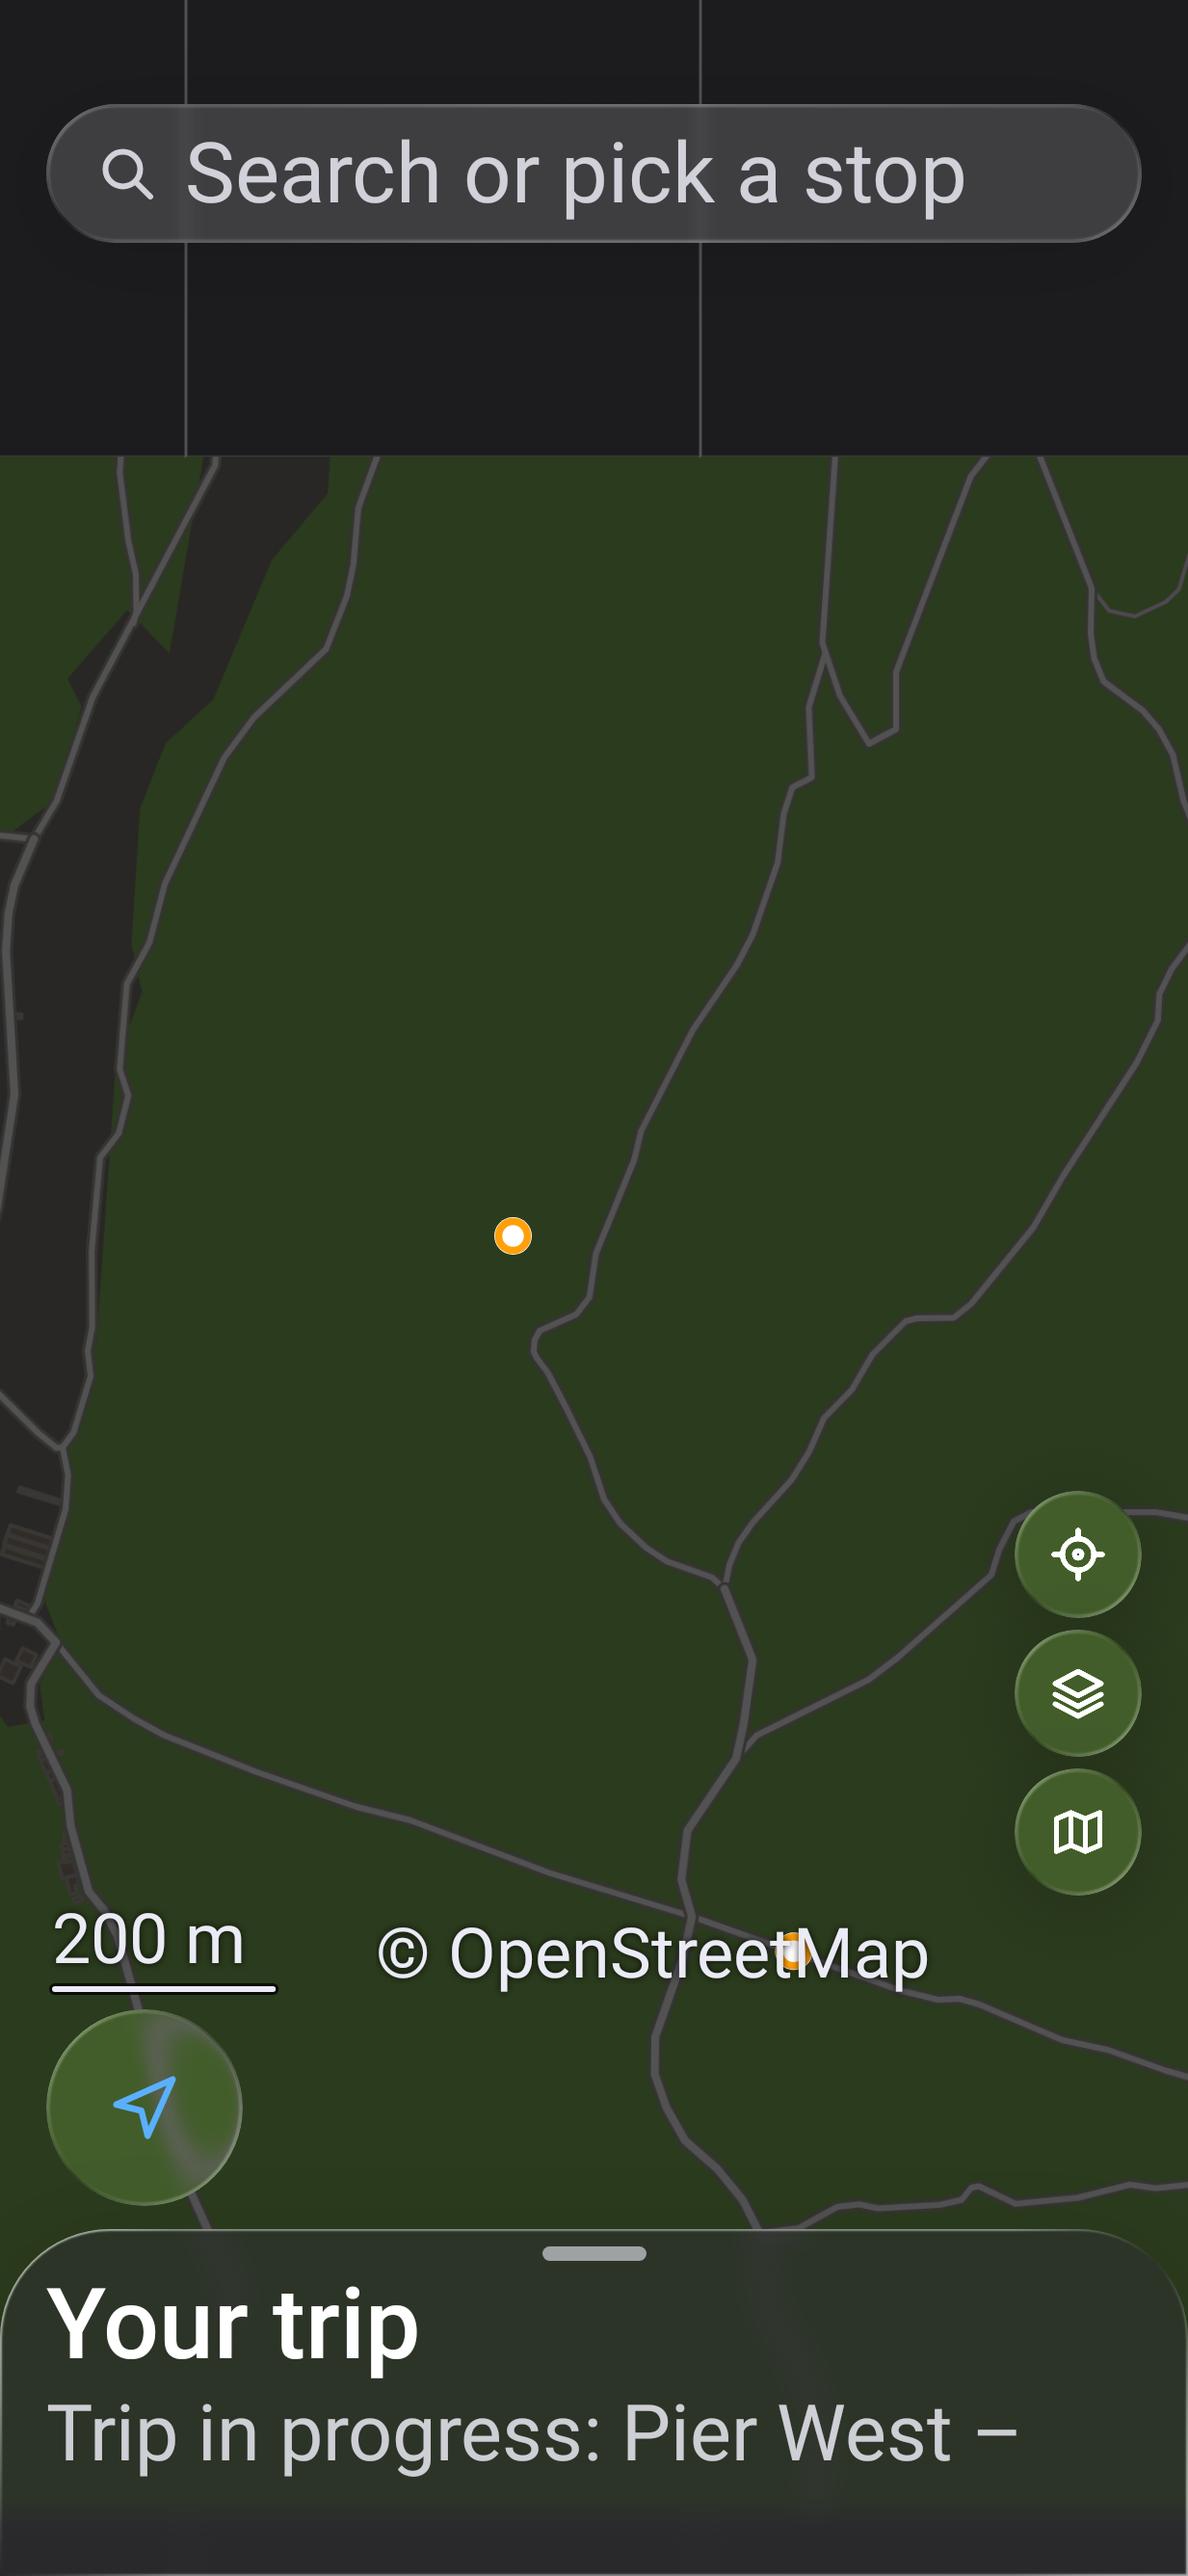
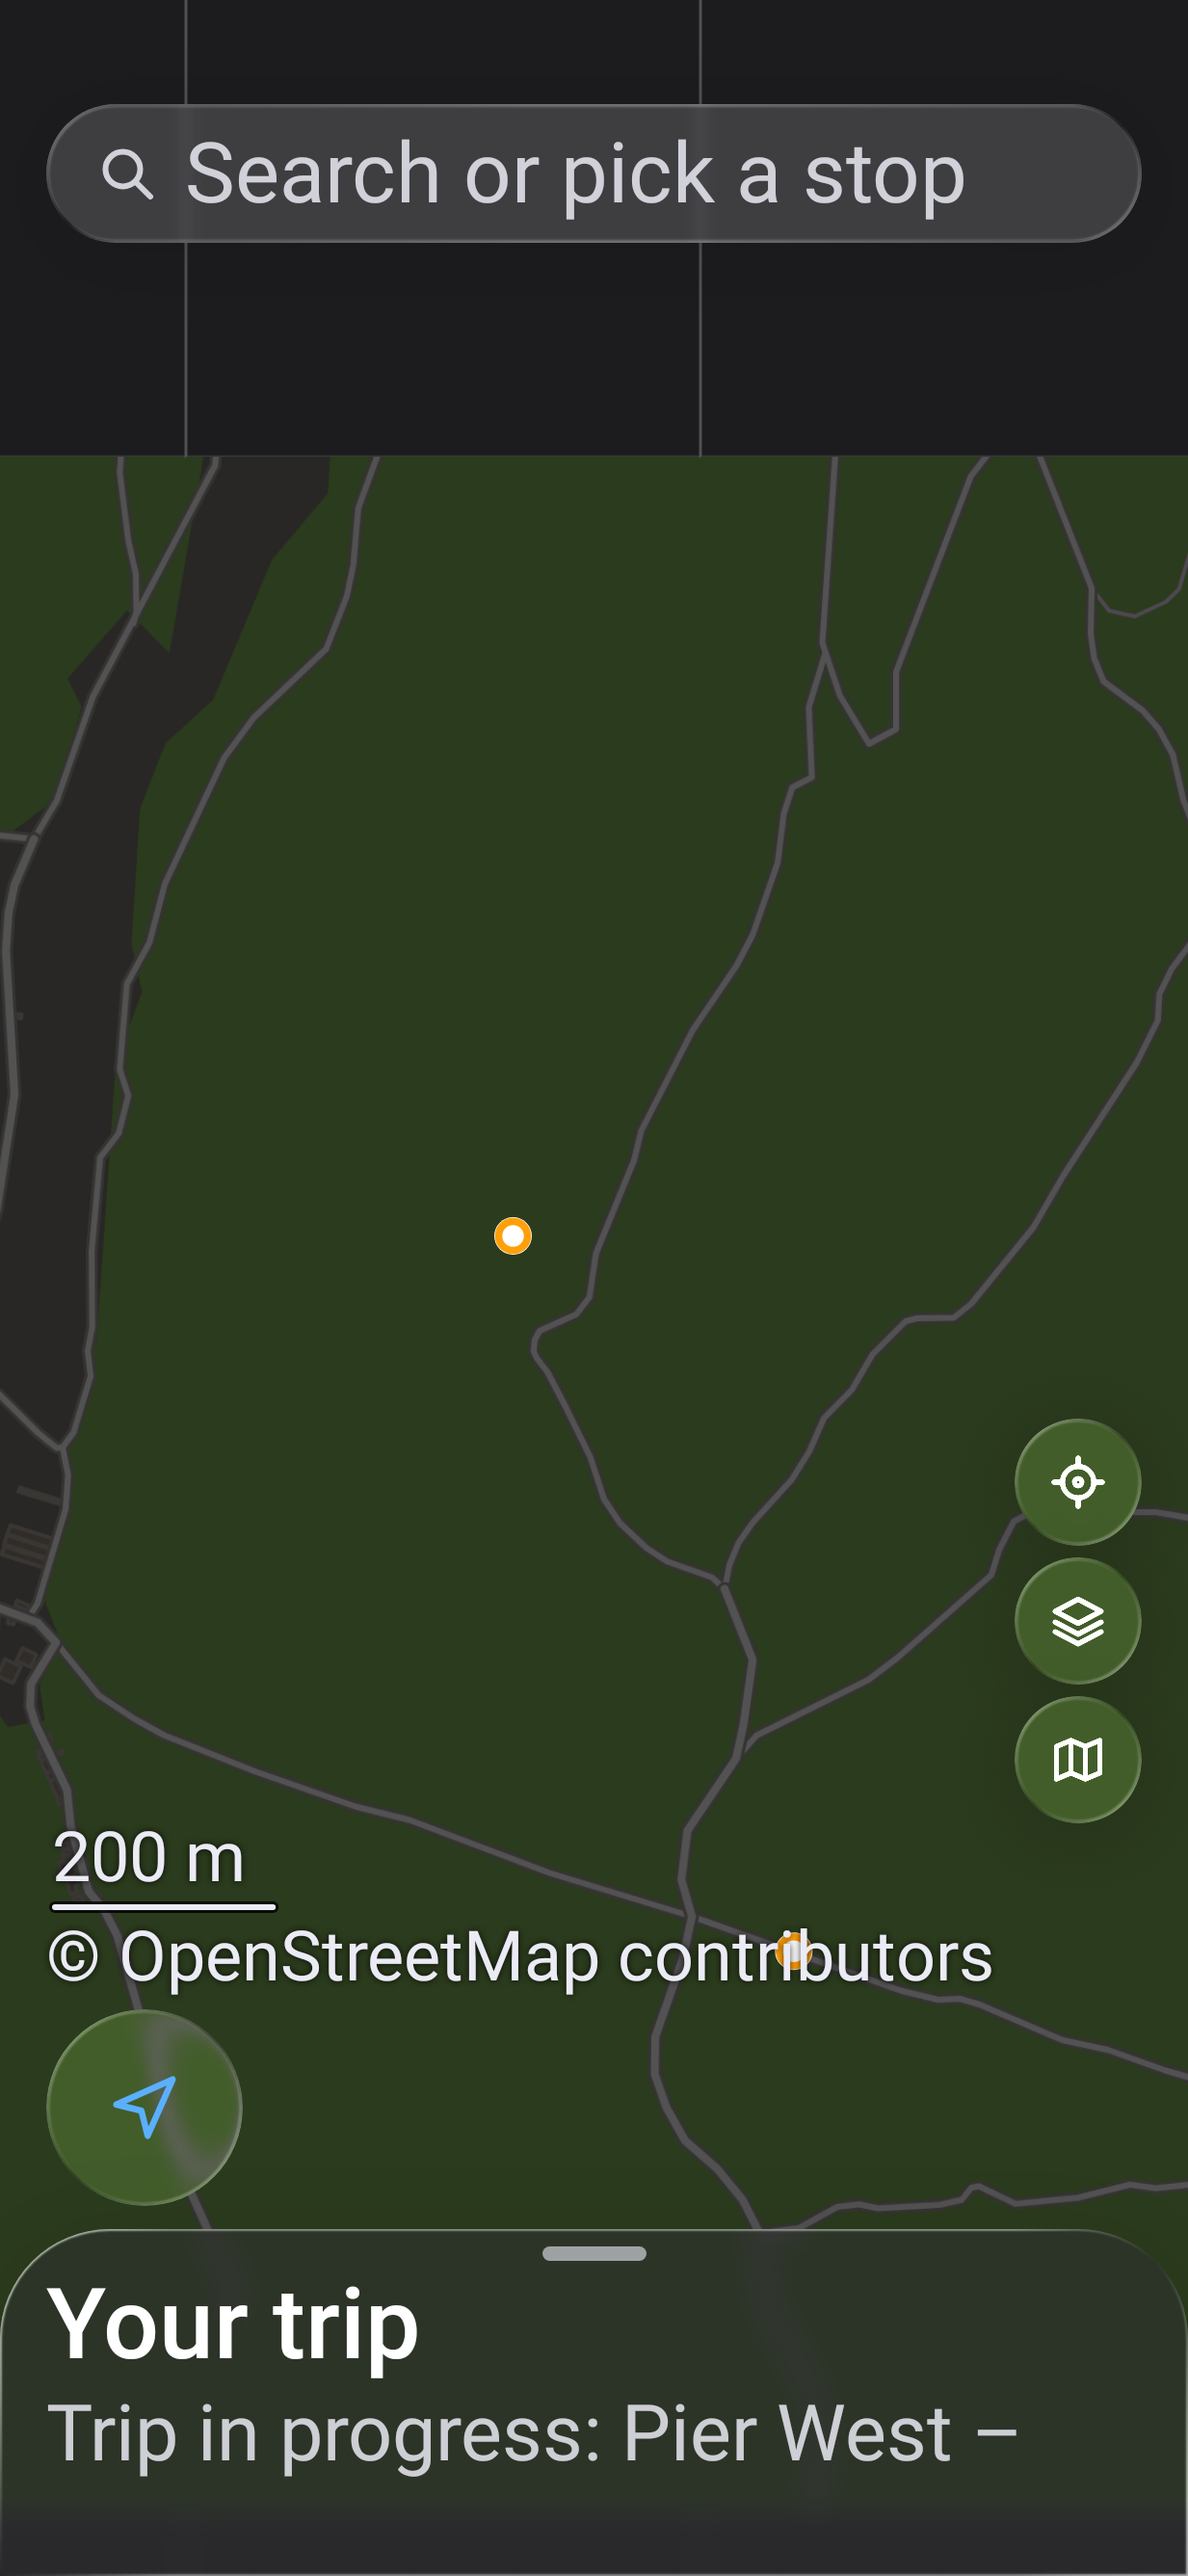
Stops: large-text layout sweep (E7.14)
At font scale 2 the pick field took two words of its hint: from 1.5 the
field takes the whole width and Paste goes under it. The map footer is a
flow row, so the attribution goes under the scale bar instead of off the
edge. The measure card's buttons keep their widths and wrap with large
text (Undo last was cut); trip rows give the pair and its line more lines.
New fs2 shots: measure card, My location, History, import summary.

Claude-Session: https://claude.ai/code/session_011osUp9MCesspyDRaLRPJDZ

Changed region(s): [[0.0308, 0.7142, 0.8321, 0.7763], [0.8321, 0.5279, 0.9862, 0.7452]]

diff --git a/android/stops/src/main/kotlin/dev/rosty/stops/tools/ToolViews.kt b/android/stops/src/main/kotlin/dev/rosty/stops/tools/ToolViews.kt
@@ -2,6 +2,7 @@ package dev.rosty.stops.tools
 
 import androidx.compose.foundation.layout.Arrangement
 import androidx.compose.foundation.layout.Column
+import androidx.compose.foundation.layout.FlowRow
 import androidx.compose.foundation.layout.Row
 import androidx.compose.foundation.layout.fillMaxWidth
 import androidx.compose.foundation.layout.padding
@@ -14,6 +15,7 @@ import androidx.compose.ui.Modifier
 import androidx.compose.ui.geometry.Rect
 import androidx.compose.ui.layout.boundsInWindow
 import androidx.compose.ui.layout.onGloballyPositioned
+import androidx.compose.ui.platform.LocalDensity
 import androidx.compose.ui.platform.testTag
 import androidx.compose.ui.res.pluralStringResource
 import androidx.compose.ui.res.stringResource
@@ -104,36 +106,47 @@ fun MeasureCard(
                 Modifier.testTag(ToolTags.MeasureDone),
             )
         }
-        Row(horizontalArrangement = Arrangement.spacedBy(Spacing.s)) {
+        // Equal thirds; with large text each keeps its own width and the row wraps instead of cutting labels.
+        val large = LocalDensity.current.fontScale >= LARGE_FONT_SCALE
+        val more = {
+            result?.let {
+                overlays.present(
+                    ButtonMenuEntry(moreAnchor[0], tools.moreItems(summary, it).toImmutableList()),
+                )
+            }
+        }
+        val buttons: @Composable (Modifier) -> Unit = { share ->
             CapsuleButton(
                 stringResource(R.string.measure_undo_last),
                 tools.measure::undo,
-                Modifier.weight(1f).testTag(ToolTags.MeasureUndo),
+                share.testTag(ToolTags.MeasureUndo),
                 enabled = state.points.isNotEmpty(),
-                fillWidth = true,
+                fillWidth = !large,
             )
             CapsuleButton(
                 stringResource(R.string.measure_clear),
                 tools::clearMeasure,
-                Modifier.weight(1f).testTag(ToolTags.MeasureClear),
+                share.testTag(ToolTags.MeasureClear),
                 enabled = state.points.isNotEmpty(),
-                fillWidth = true,
+                fillWidth = !large,
             )
             CapsuleButton(
                 stringResource(R.string.measure_more),
-                {
-                    result?.let {
-                        val items = tools.moreItems(summary, it).toImmutableList()
-                        overlays.present(ButtonMenuEntry(moreAnchor[0], items))
-                    }
-                },
-                Modifier
-                    .weight(1f)
+                { more() },
+                share
                     .onGloballyPositioned { moreAnchor[0] = it.boundsInWindow() }
                     .testTag(ToolTags.MeasureMore),
                 enabled = result != null,
-                fillWidth = true,
+                fillWidth = !large,
             )
+        }
+        if (large) {
+            FlowRow(
+                horizontalArrangement = Arrangement.spacedBy(Spacing.s),
+                verticalArrangement = Arrangement.spacedBy(Spacing.s),
+            ) { buttons(Modifier) }
+        } else {
+            Row(horizontalArrangement = Arrangement.spacedBy(Spacing.s)) { buttons(Modifier.weight(1f)) }
         }
     }
 }
@@ -221,3 +234,6 @@ fun OverlayController.presentMyLocationSheet(
             }
         }
     }.also { present(it) }
+
+/** From this font scale the measure card's buttons keep their own widths and wrap. */
+private const val LARGE_FONT_SCALE = 1.5f

diff --git a/android/stops/src/main/kotlin/dev/rosty/stops/pick/PickSheets.kt b/android/stops/src/main/kotlin/dev/rosty/stops/pick/PickSheets.kt
@@ -20,6 +20,7 @@ import androidx.compose.runtime.snapshotFlow
 import androidx.compose.ui.Alignment
 import androidx.compose.ui.Modifier
 import androidx.compose.ui.input.nestedscroll.nestedScroll
+import androidx.compose.ui.platform.LocalDensity
 import androidx.compose.ui.platform.testTag
 import androidx.compose.ui.res.pluralStringResource
 import androidx.compose.ui.res.stringResource
@@ -127,21 +128,41 @@ private fun ColumnScope.PickBody(
             maxLines = 1,
             overflow = TextOverflow.Ellipsis,
         )
-        Row(
-            Modifier.fillMaxWidth().padding(horizontal = Spacing.gutter, vertical = Spacing.s),
-            verticalAlignment = Alignment.CenterVertically,
-            horizontalArrangement = Arrangement.spacedBy(Spacing.s),
-        ) {
-            SearchField(
-                text,
-                Modifier.weight(1f).testTag(PickTags.Field),
-                placeholder = stringResource(R.string.pick_field),
-            )
+        // Large text: the field takes the whole width (its hint would be cut to two words) and Paste goes under it.
+        val stacked = LocalDensity.current.fontScale >= STACK_FONT_SCALE
+        val paste: @Composable (Modifier) -> Unit = { modifier ->
             CapsuleButton(
                 stringResource(R.string.pick_paste),
                 { viewModel.onAction(PickAction.Paste(clipboard())) },
-                Modifier.testTag(PickTags.Paste),
+                modifier.testTag(PickTags.Paste),
             )
+        }
+        if (stacked) {
+            Column(
+                Modifier.fillMaxWidth().padding(horizontal = Spacing.gutter, vertical = Spacing.s),
+                verticalArrangement = Arrangement.spacedBy(Spacing.s),
+                horizontalAlignment = Alignment.End,
+            ) {
+                SearchField(
+                    text,
+                    Modifier.fillMaxWidth().testTag(PickTags.Field),
+                    placeholder = stringResource(R.string.pick_field),
+                )
+                paste(Modifier)
+            }
+        } else {
+            Row(
+                Modifier.fillMaxWidth().padding(horizontal = Spacing.gutter, vertical = Spacing.s),
+                verticalAlignment = Alignment.CenterVertically,
+                horizontalArrangement = Arrangement.spacedBy(Spacing.s),
+            ) {
+                SearchField(
+                    text,
+                    Modifier.weight(1f).testTag(PickTags.Field),
+                    placeholder = stringResource(R.string.pick_field),
+                )
+                paste(Modifier)
+            }
         }
         LazyColumn(
             Modifier
@@ -417,3 +438,6 @@ fun OverlayController.presentCopyAsSheet(
             }
         }
     }.also { present(it) }
+
+/** From this font scale the pick field and Paste stack. */
+private const val STACK_FONT_SCALE = 1.5f

diff --git a/android/stops/src/main/kotlin/dev/rosty/stops/home/HomeScreen.kt b/android/stops/src/main/kotlin/dev/rosty/stops/home/HomeScreen.kt
@@ -5,6 +5,7 @@ import androidx.compose.foundation.interaction.MutableInteractionSource
 import androidx.compose.foundation.layout.Arrangement
 import androidx.compose.foundation.layout.Box
 import androidx.compose.foundation.layout.Column
+import androidx.compose.foundation.layout.FlowRow
 import androidx.compose.foundation.layout.PaddingValues
 import androidx.compose.foundation.layout.Row
 import androidx.compose.foundation.layout.RowScope
@@ -311,14 +312,15 @@ fun StopsHome(
                     ) {
                         // A wide window keeps the footer above the buttons, clear of the centred sheet.
                         if (wide) {
-                            Row(
+                            // A flow row: at large text the attribution goes under the scale bar instead of off the edge.
+                            FlowRow(
                                 Modifier
                                     .fillMaxWidth()
                                     .windowInsetsPadding(WindowInsets.safeDrawing.only(WindowInsetsSides.Horizontal))
                                     .padding(horizontal = Spacing.gutter, vertical = Spacing.xs)
                                     .testTag(HomeTags.MapFooter),
                                 horizontalArrangement = Arrangement.SpaceBetween,
-                                verticalAlignment = Alignment.Bottom,
+                                itemVerticalAlignment = Alignment.Bottom,
                                 content = mapFooter,
                             )
                         }
@@ -331,14 +333,15 @@ fun StopsHome(
                                 .onSizeChanged { buttonsWidthPx = it.width.toFloat() + gapPx },
                         )
                         if (!wide) {
-                            Row(
+                            // A flow row: at large text the attribution goes under the scale bar instead of off the edge.
+                            FlowRow(
                                 Modifier
                                     .fillMaxWidth()
                                     .windowInsetsPadding(WindowInsets.safeDrawing.only(WindowInsetsSides.Horizontal))
                                     .padding(horizontal = Spacing.gutter, vertical = Spacing.xs)
                                     .testTag(HomeTags.MapFooter),
                                 horizontalArrangement = Arrangement.SpaceBetween,
-                                verticalAlignment = Alignment.Bottom,
+                                itemVerticalAlignment = Alignment.Bottom,
                                 content = mapFooter,
                             )
                         }

diff --git a/android/stops/src/test/kotlin/dev/rosty/stops/history/E711ShotTest.kt b/android/stops/src/test/kotlin/dev/rosty/stops/history/E711ShotTest.kt
@@ -45,12 +45,13 @@ class E711ShotTest : ShotTest() {
     private fun historyShot(
         name: String,
         large: Boolean = true,
+        fontScale: Float = 1f,
         then: () -> Unit = {},
     ) {
         for (dark in listOf(false, true)) {
             compose.runOnUiThread { compose.activity.viewModelStore.clear() }
             val fixture = HistoryFixtures.app()
-            composeFrame(dark = dark) { fixture.Content() }
+            composeFrame(dark = dark, fontScale = fontScale) { fixture.Content() }
             settleRust()
             compose
                 .onNodeWithTag(HomeSheetTags.HistoryRow, useUnmergedTree = true)
@@ -68,6 +69,18 @@ class E711ShotTest : ShotTest() {
     @Test fun history() = historyShot("e7.11-history", large = false)
 
     @Test fun historyStats() = historyShot("e7.11-history-stats")
+
+    @Test fun historyLargeText() =
+        historyShot("e7.11-history-fs2", fontScale = 2f) {
+            compose
+                .onNodeWithTag(
+                    HistoryTags.List,
+                    useUnmergedTree = true,
+                ).performSemanticsAction(SemanticsActions.ScrollBy) {
+                    it(0f, 2600f)
+                }
+            settleRust(800)
+        }
 
     @Test fun historyTurkish() {
         RuntimeEnvironment.setQualifiers("+tr")

diff --git a/android/stops/src/test/kotlin/dev/rosty/stops/saved/E712ShotTest.kt b/android/stops/src/test/kotlin/dev/rosty/stops/saved/E712ShotTest.kt
@@ -26,11 +26,14 @@ class E712ShotTest : ShotTest() {
     private val options =
         RoborazziOptions(compareOptions = RoborazziOptions.CompareOptions(changeThreshold = ShotTest.CHANGE_THRESHOLD))
 
-    private fun importShot(name: String) {
+    private fun importShot(
+        name: String,
+        fontScale: Float = 1f,
+    ) {
         for (dark in listOf(false, true)) {
             compose.runOnUiThread { compose.activity.viewModelStore.clear() }
             val fixture = AppFixture(FakeStopsCore(scriptTransit = false, real = HostCore.real()))
-            composeFrame(dark = dark) { fixture.Content() }
+            composeFrame(dark = dark, fontScale = fontScale) { fixture.Content() }
             settleRust()
             present(fixture.overlays, fixture)
             settleRust()
@@ -60,6 +63,8 @@ class E712ShotTest : ShotTest() {
         importShot("e7.12-import-summary")
         compose.onNodeWithText("Add 2 stops. 1 already saved.", useUnmergedTree = true).assertExists()
     }
+
+    @Test fun importSummaryLargeText() = importShot("e7.12-import-summary-fs2", fontScale = 2f)
 
     @Test fun importSummaryTurkish() {
         RuntimeEnvironment.setQualifiers("+tr")

diff --git a/android/stops/src/test/kotlin/dev/rosty/stops/tools/E79ShotTest.kt b/android/stops/src/test/kotlin/dev/rosty/stops/tools/E79ShotTest.kt
@@ -77,6 +77,16 @@ class E79ShotTest : ShotTest() {
         toolShot("e7.9-measure-two-legs-tr") { measureThreePoints("Mesafe ölç") }
     }
 
+    @Test fun measureLargeText() = toolShot("e7.9-measure-two-legs-fs2", fontScale = 2f) { measureThreePoints() }
+
+    @Test fun myLocationLargeText() =
+        toolShot("e7.9-my-location-sheet-fs2", fontScale = 2f) {
+            compose
+                .onNodeWithTag(HomeTags.Locate, useUnmergedTree = true)
+                .performSemanticsAction(SemanticsActions.OnLongClick)
+            settleRust()
+        }
+
     @Test fun measureMoreMenu() =
         toolShot("e7.9-measure-more-menu") {
             measureThreePoints()

diff --git a/android/stops/src/main/kotlin/dev/rosty/stops/history/HistorySheet.kt b/android/stops/src/main/kotlin/dev/rosty/stops/history/HistorySheet.kt
@@ -336,7 +336,9 @@ private fun TripRow(
             title = row.title,
             modifier = Modifier.testTag(HistoryTags.row(row.index)),
             secondary = stringResource(R.string.history_row_detail, ended, row.summaryLine),
-            secondaryMaxLines = 2,
+            // Large text: the pair and its line wrap rather than lose their ends to the outcome.
+            titleMaxLines = 2,
+            secondaryMaxLines = 3,
             meta =
                 stringResource(
                     if (row.record.outcome == Outcome.Arrived) {
